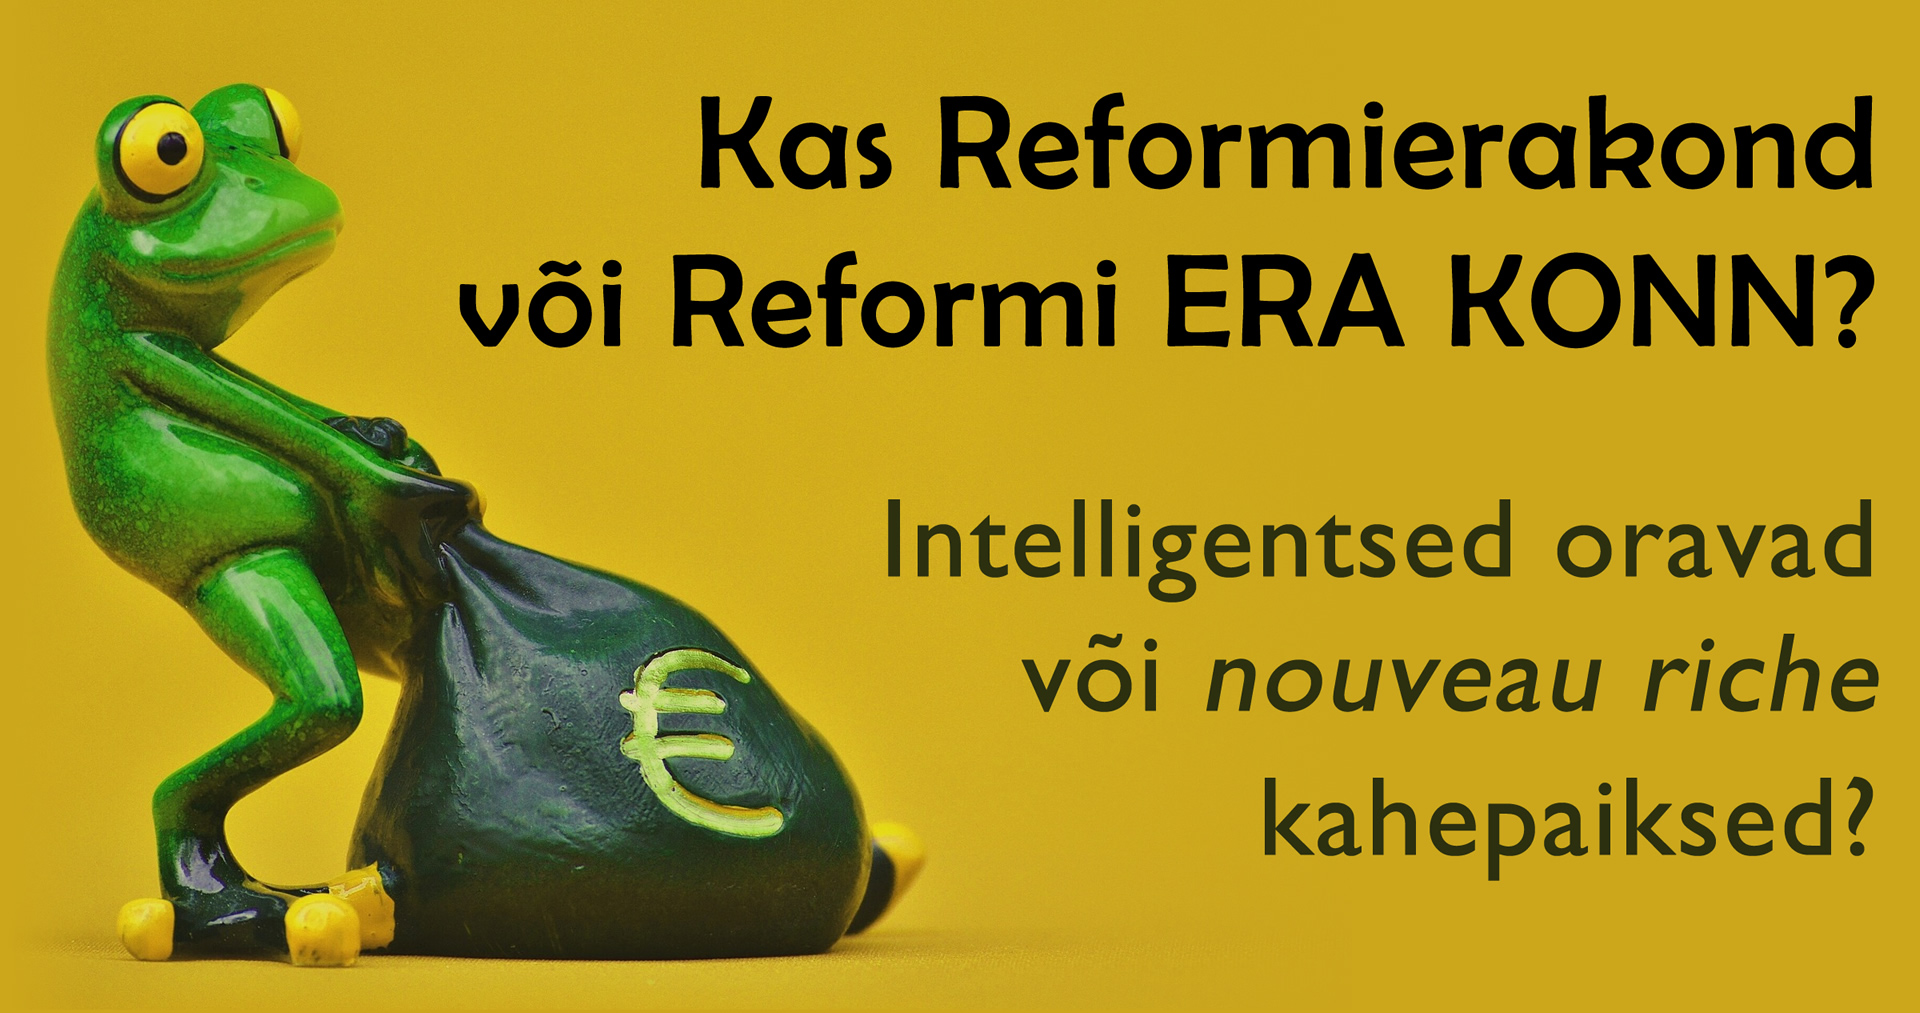
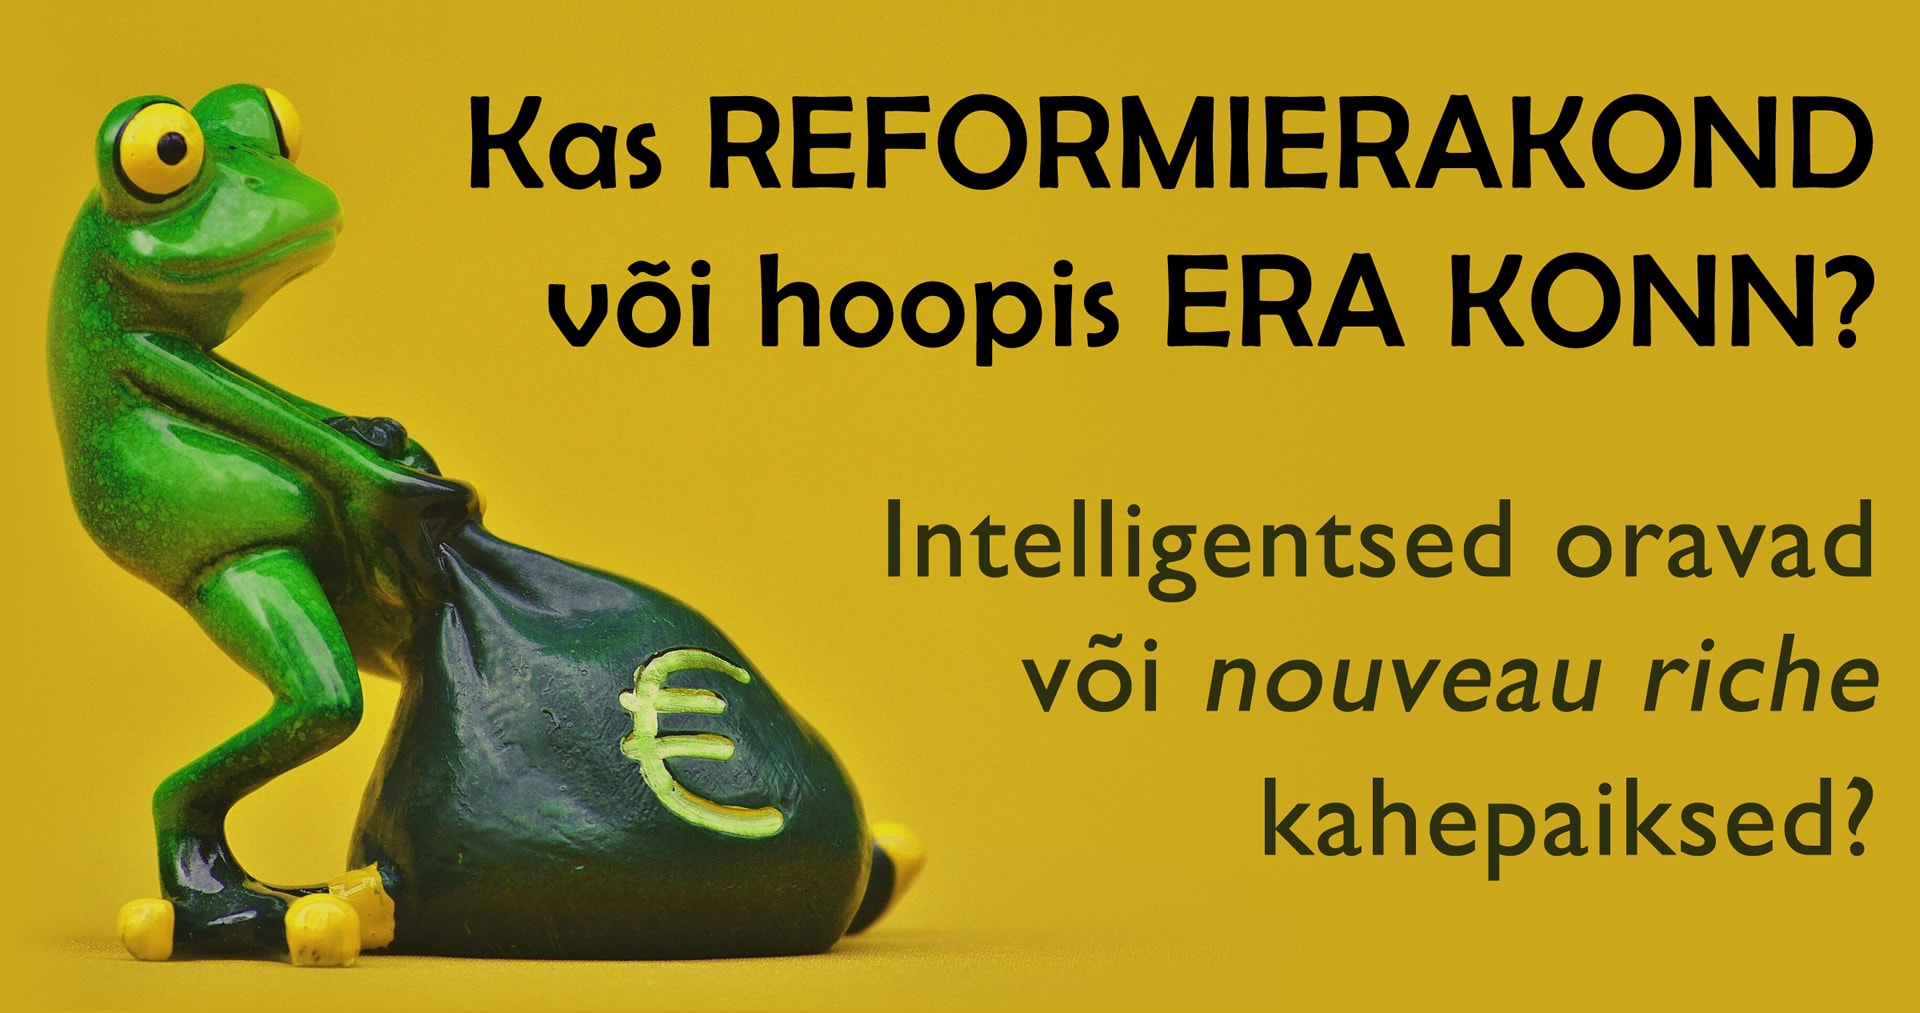
oki

Changed region(s): [[0.2188, 0.0918, 1.0, 0.1836], [0.2188, 0.2448, 0.5938, 0.3672]]

diff --git a/reform/index.html b/reform/index.html
@@ -34,19 +34,19 @@ body {
 <body>
 <table width="100%" border="0" cellspacing="0" cellpadding="0">
   <tr>
-    <td align="center" bgcolor="#CCA71B"><img src="frog1.jpg" width="80%" /></td>
+    <td align="center" bgcolor="#CCA71B"><img src="frog1.jpg" width="90%" /></td>
   </tr>
   <tr>
     <td align="center" bgcolor="#284B07"><table width="100%" border="0" cellspacing="20" cellpadding="20">
       <tr>
         <td align="left"><p class="a1">Dialoog eliidi ja intelligentsi vahel</p>
           <p class="a2"><em>&nbsp;<br />
-          Ma hetkel veel  Reformierakonna ja selle liikmete teravat kriitikat siia ei pane, äkki võtavad aru pähe.</em></p>
-          <p class="a2"><span class="a2">Aga kui rääkida dialoogist eliidi ja intelligentsi vahel üldiselt, siis tänapäeva Eestis kipub olukord masendav olema. 19. sajandil baltisaksa eliidil oli siiski tugev huvi tarkade ja loominguliste inimesete vastu. Nagu me ajaloost mäletame, leidis aset üpris tugev integratsioon kohaliku intelligentsi ja baltisakslaste vahel.</span></p>
+          Tugevat kriitikat veel ei pane, ainult sissejuhatav jutt, äkki võtavad aru pähe.</em></p>
+          <p class="a2"><span class="a2">Kui rääkida dialoogist eliidi ja intelligentsi vahel, siis tänapäeva Eestis kipub olukord masendav olema. 19. sajandil baltisaksa eliidil oli siiski tugev huvi tarkade ja loominguliste inimesete vastu. Nagu me ajaloost mäletame, leidis aset üpris tugev integratsioon kohaliku intelligentsi ja baltisakslaste vahel.</span></p>
           <p class="a2"><span class="a2">Tänapäeva Eestis: kui kohtad intelligentset inimest, siis jätab ta elus eksinud inimese mulje. Ja kui üritad mõnele eliidi esindajale tutvustada mõningaid kasulikke ideid, siis ootab sind ees blokk igasugu kommunikatsioonile, parimal juhul suhtled mõne alluvaga, kes ei pruugi mõttekäikudest aru saada. Teatud mõttes on see normaalne, eks uusrikas erinebki vanarikkast oma primitiivse suhtumisega &quot;olen tähtis onu ja mingite nohikutega suhtlema ei hakka&quot;. </span></p>
-<p class="a2"><span class="a2">Aga kui poliitiline partei ei aita asjal õiges suunas areneda - vaat see ei ole enam normaalne.</span></p>
-          <p class="a2"><span class="a2">Ja kui parteiliikmed näitavad valet eeskuju - see on veel rohkem ebanormaalne.</span></p>
-          <p class="a2"><span class="a2">Ja kui tegemist on parempoolse parteiga, siis  see juba täielik <em>facepalm</em> - parempoolse partei jaoks intelligentsi ignoreerimine on isegi suurem absurd, kui lihtrahva ignoreerimine. </span></p></td>
+<p class="a2"><span class="a2"><strong>Aga</strong> kui poliitiline partei ei aita asjal õiges suunas areneda - <em>vaat see</em> <em>ei ole enam normaalne!</em></span></p>
+          <p class="a2"><span class="a2"><strong>Ja</strong> kui parteiliikmed näitavad valet eeskuju - <em>see on</em> <em>veel rohkem ebanormaalne!</em></span></p>
+          <p class="a2"><span class="a2"><strong>Ja</strong> kui tegemist on parempoolse parteiga, siis  see juba täielik <em>facepalm</em> - parempoolse partei jaoks intelligentsi ignoreerimine on isegi suurem absurd, kui lihtrahva ignoreerimine! </span></p></td>
       </tr>
     </table></td>
   </tr>
